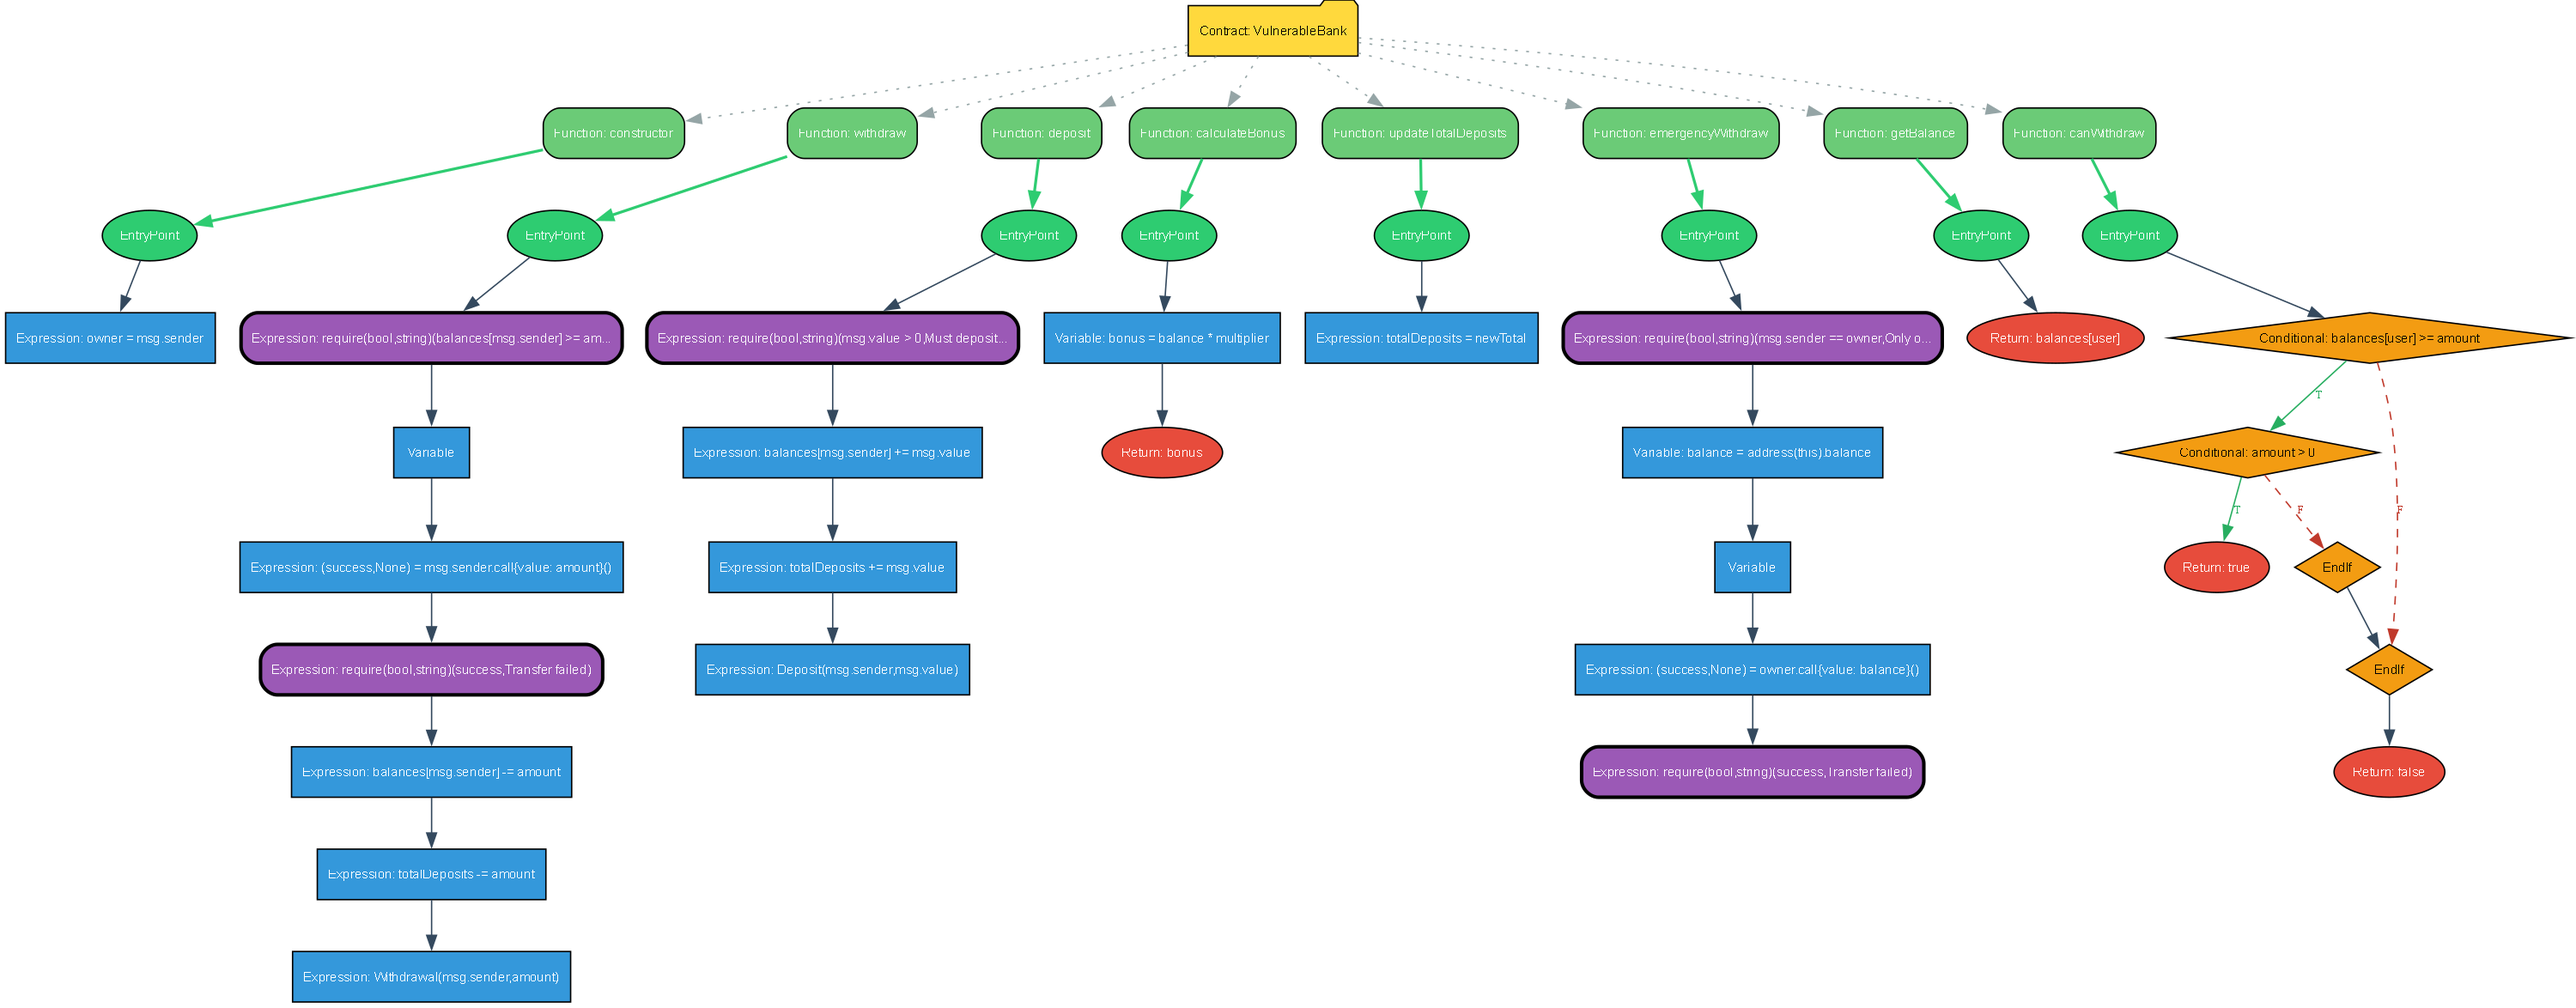
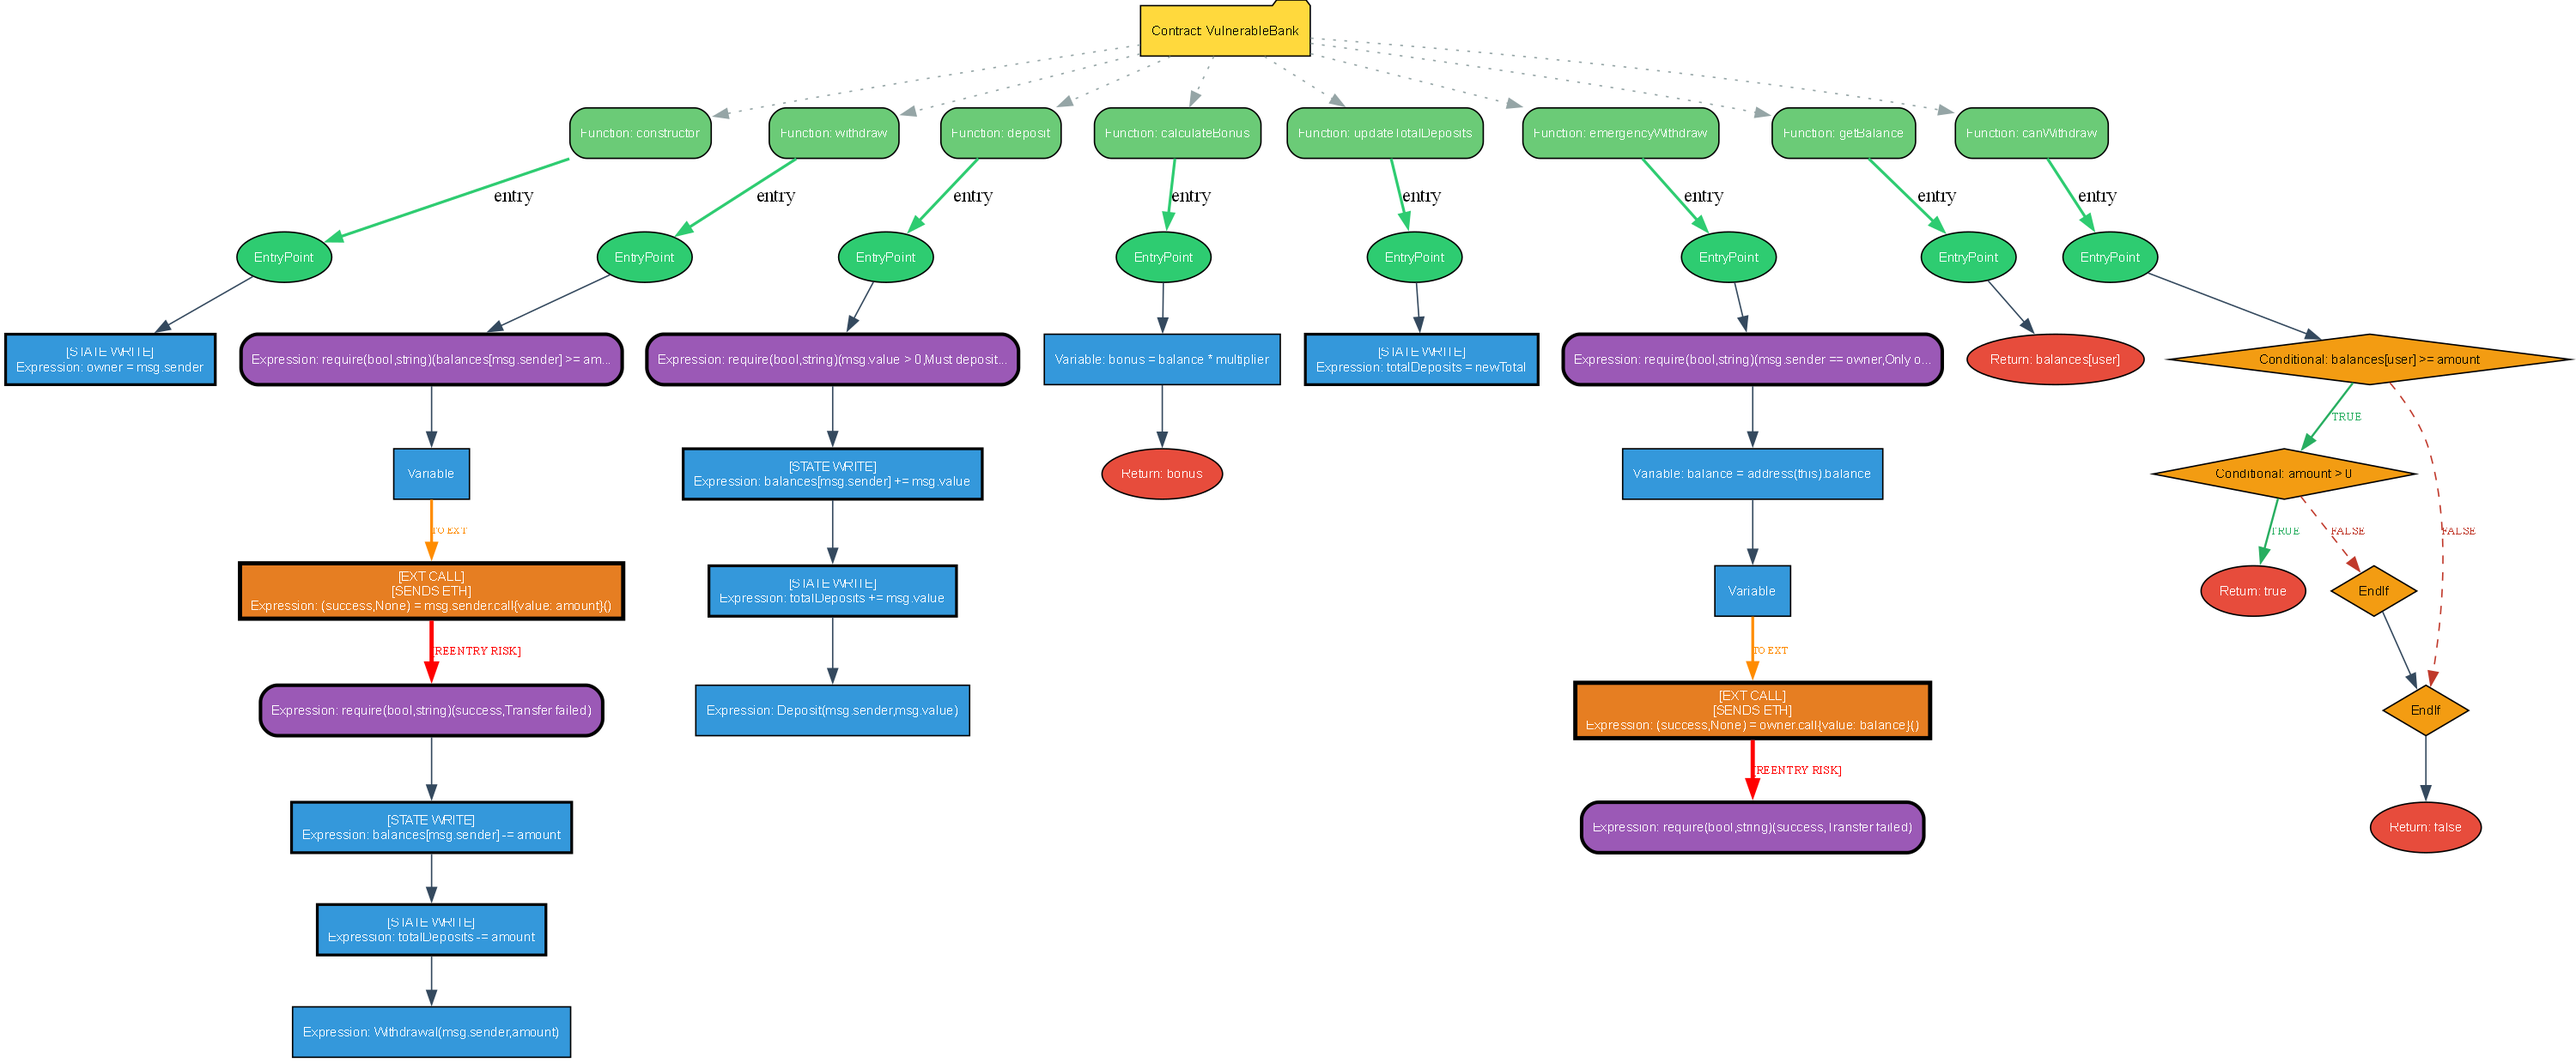
Updated graphs to include more information

diff --git a/graph_gen/cfg_generator.py b/graph_gen/cfg_generator.py
@@ -63,6 +63,9 @@ class CFGGenerator:
         self.graph = nx.DiGraph()
         self._build_cfg(contract)
 
+        # Post-process to identify vulnerability patterns
+        self._identify_reentrancy_patterns()
+
         return self.graph
 
     def _build_cfg(self, contract: Contract):
@@ -123,7 +126,8 @@ class CFGGenerator:
         contract_name: str,
         func_name: str,
         visited: Set[int],
-        is_entry: bool = False
+        is_entry: bool = False,
+        edge_type_override: Optional[str] = None
     ) -> str:
         """Recursively process CFG nodes"""
         node_id = f"cfg_node_{contract_name}_{func_name}_{node.node_id}"
@@ -132,7 +136,9 @@ class CFGGenerator:
         if node.node_id in visited:
             if parent_id and self.graph.has_node(node_id):
                 if not is_entry:
-                    self.graph.add_edge(parent_id, node_id, edge_type="control_flow")
+                    # Determine edge type based on parent and current node
+                    edge_type = edge_type_override or self._determine_edge_type(parent_id, node)
+                    self.graph.add_edge(parent_id, node_id, edge_type=edge_type)
             return node_id
 
         visited.add(node.node_id)
@@ -173,38 +179,65 @@ class CFGGenerator:
             node_attrs["is_guard"] = True
             node_attrs["guard_type"] = "revert"
 
+        # Detect external calls (critical for reentrancy)
+        node_attrs["contains_external_call"] = self._detect_external_call(node)
+        node_attrs["contains_state_write"] = self._detect_state_write(node)
+
+        # Detect loop patterns (for DOS vulnerability detection)
+        if node.type in [NodeType.IFLOOP, NodeType.STARTLOOP]:
+            node_attrs["loop_pattern"] = self._detect_loop_pattern(node)
+
         self.graph.add_node(node_id, **node_attrs)
+
+        # After adding node, check if it's part of a reentrancy pattern
+        # This requires checking predecessors, so we do it after node is added
+        if node_attrs["contains_state_write"]:
+            # Will be updated after all nodes are processed
+            node_attrs["potential_reentrancy"] = False
 
         # Add edge from parent
         if parent_id and not is_entry:
-            self.graph.add_edge(parent_id, node_id, edge_type="control_flow")
+            edge_type = edge_type_override or self._determine_edge_type(parent_id, node)
+            self.graph.add_edge(parent_id, node_id, edge_type=edge_type)
         elif is_entry:
             self.graph.add_edge(parent_id, node_id, edge_type="entry")
 
-        # Process conditional branches
+        # Process conditional branches with specific edge types
         if node.type == NodeType.IF:
-            # Add true and false branches
+            # Add true and false branches with typed edges
             true_branch = node.son_true
             false_branch = node.son_false
 
             if true_branch:
-                true_id = self._process_cfg_node(
-                    true_branch, node_id, contract_name, func_name, visited
+                self._process_cfg_node(
+                    true_branch, node_id, contract_name, func_name, visited,
+                    edge_type_override="conditional_true"
                 )
-                # Update edge to indicate true branch
-                if self.graph.has_edge(node_id, true_id):
-                    self.graph[node_id][true_id]['branch'] = 'true'
 
             if false_branch:
-                false_id = self._process_cfg_node(
-                    false_branch, node_id, contract_name, func_name, visited
+                self._process_cfg_node(
+                    false_branch, node_id, contract_name, func_name, visited,
+                    edge_type_override="conditional_false"
                 )
-                # Update edge to indicate false branch
-                if self.graph.has_edge(node_id, false_id):
-                    self.graph[node_id][false_id]['branch'] = 'false'
+
+        # Process loop structures with specific edge types
+        elif node.type == NodeType.IFLOOP:
+            # Loop condition node - body, back edge, or exit
+            for son in node.sons:
+                # Determine edge type based on successor type
+                if son.type in [NodeType.STARTLOOP, NodeType.IFLOOP] and son.node_id <= node.node_id:
+                    # Back edge to loop header
+                    edge_type = "loop_back"
+                elif son.type == NodeType.ENDLOOP:
+                    # Exit from loop
+                    edge_type = "loop_exit"
+                else:
+                    # Loop body
+                    edge_type = "loop_body"
+                self._process_cfg_node(son, node_id, contract_name, func_name, visited, edge_type_override=edge_type)
 
         else:
-            # Process all successor nodes
+            # Process all successor nodes with sequential edges
             for son in node.sons:
                 self._process_cfg_node(son, node_id, contract_name, func_name, visited)
 
@@ -259,11 +292,127 @@ class CFGGenerator:
             key = f"{node_type.lower()}_count"
             stats[key] = stats.get(key, 0) + 1
 
-        # Count branch edges
-        branch_true = sum(1 for _, _, d in self.graph.edges(data=True) if d.get('branch') == 'true')
-        branch_false = sum(1 for _, _, d in self.graph.edges(data=True) if d.get('branch') == 'false')
+        # Count edge types (important for RGCN)
+        edge_type_counts = {}
+        for _, _, data in self.graph.edges(data=True):
+            edge_type = data.get('edge_type', 'unknown')
+            edge_type_counts[edge_type] = edge_type_counts.get(edge_type, 0) + 1
 
-        stats['branch_true_count'] = branch_true
-        stats['branch_false_count'] = branch_false
+        stats['edge_types'] = edge_type_counts
+
+        # Count vulnerability-relevant patterns
+        stats['external_call_nodes'] = sum(1 for _, d in self.graph.nodes(data=True) if d.get('contains_external_call', False))
+        stats['state_write_nodes'] = sum(1 for _, d in self.graph.nodes(data=True) if d.get('contains_state_write', False))
+        stats['guard_nodes'] = sum(1 for _, d in self.graph.nodes(data=True) if d.get('is_guard', False))
+        stats['potential_reentrancy_nodes'] = sum(1 for _, d in self.graph.nodes(data=True) if d.get('potential_reentrancy', False))
 
         return stats
+
+    def _determine_edge_type(self, parent_id: str, current_node: Node) -> str:
+        """Determine the edge type based on parent and current node context"""
+        # Get parent node data
+        parent_data = self.graph.nodes.get(parent_id, {})
+        parent_type = parent_data.get("cfg_node_type", "")
+        parent_has_external_call = parent_data.get("contains_external_call", False)
+
+        # Critical: Edge AFTER external call (reentrancy detection)
+        if parent_has_external_call:
+            return "post_external_call"
+
+        # Edge TO external call (also important for pattern detection)
+        if self._detect_external_call(current_node):
+            return "to_external_call"
+
+        # Loop-related edges
+        if "LOOP" in parent_type:
+            return "loop_flow"
+
+        # Default sequential flow
+        return "sequential"
+
+    def _detect_external_call(self, node: Node) -> bool:
+        """Detect if node contains external calls (critical for reentrancy)"""
+        if not node.expression:
+            return False
+
+        expr_str = str(node.expression).lower()
+
+        # Low-level calls
+        if any(call in expr_str for call in ['.call(', '.call{', '.delegatecall(', '.staticcall(']):
+            return True
+
+        # High-level transfer methods
+        if any(call in expr_str for call in ['.transfer(', '.send(']):
+            return True
+
+        # Check Slither's internal call detection
+        if hasattr(node, 'high_level_calls') and node.high_level_calls:
+            return True
+
+        if hasattr(node, 'low_level_calls') and node.low_level_calls:
+            return True
+
+        return False
+
+    def _detect_state_write(self, node: Node) -> bool:
+        """Detect if node writes to state variables"""
+        if not hasattr(node, 'state_variables_written'):
+            return False
+
+        return len(node.state_variables_written) > 0
+
+    def _detect_loop_pattern(self, node: Node) -> str:
+        """Detect loop patterns for DOS vulnerability detection"""
+        if not node.expression:
+            return "unknown"
+
+        expr_str = str(node.expression).lower()
+
+        # Check for unbounded loops (array.length, mapping iteration)
+        if any(pattern in expr_str for pattern in ['.length', 'array', '[]']):
+            return "array_iteration"
+
+        # Check for gas-intensive operations in loop
+        if any(pattern in expr_str for pattern in ['sstore', 'call', 'transfer']):
+            return "gas_intensive"
+
+        # Numeric bounded loops
+        if any(char.isdigit() for char in expr_str):
+            return "bounded"
+
+        return "standard"
+
+    def _identify_reentrancy_patterns(self):
+        """
+        Post-process graph to identify potential reentrancy patterns
+        Pattern: external call → state write (without proper checks between)
+        """
+        for node_id, node_data in self.graph.nodes(data=True):
+            # Skip if not a state write node
+            if not node_data.get('contains_state_write', False):
+                continue
+
+            # Check all predecessors (within 2 hops) for external calls
+            potential_reentrancy = False
+
+            # Check immediate predecessors
+            for pred_id in self.graph.predecessors(node_id):
+                pred_data = self.graph.nodes[pred_id]
+                edge_data = self.graph.edges[pred_id, node_id]
+
+                # Direct reentrancy: external call → state write
+                if edge_data.get('edge_type') == 'post_external_call':
+                    potential_reentrancy = True
+                    break
+
+                # Check 2-hop predecessors (external call → other → state write)
+                if pred_data.get('contains_external_call', False):
+                    # Check if there's a guard between them
+                    has_guard_between = pred_data.get('is_guard', False)
+                    if not has_guard_between:
+                        potential_reentrancy = True
+                        break
+
+            # Update node attribute
+            if potential_reentrancy:
+                self.graph.nodes[node_id]['potential_reentrancy'] = True
